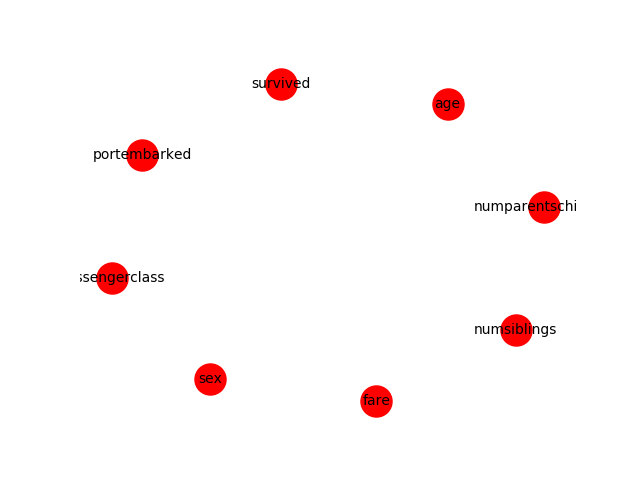
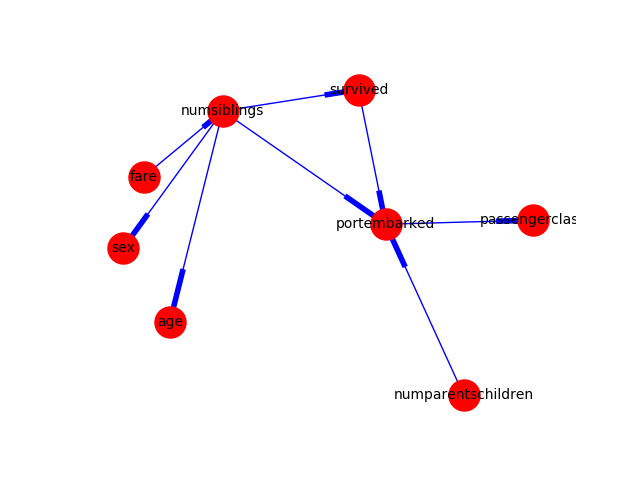
workable algorithm that builds graph developed; initial score before adding parents seems too high, thus discouraged

diff --git a/grapho.py b/grapho.py
@@ -53,71 +53,90 @@ def compute(infile, outfile):
 # loop a limited number of times morphing graph into higher scoring shape
 def optimizeGraph(graph, dataframe):
     # graph = addRandomEdge(graph)
+    # graph = addRandomEdge(graph)
+    # graph = addRandomEdge(graph)
     initialScore = oscore.getScore(graph, dataframe, 0)
     bestGraph = graph.copy()
     for node in graph.nodes():
         bestGraph = getChangedGraph(bestGraph, node, dataframe).copy()
     finalScore = oscore.getScore(bestGraph, dataframe, -1)
-    print "****** INITIAL SCORE: " + str(int(initialScore)) + ", FINAL SCORE: " + str(int(finalScore)) + " ******"
+    # print "****** INITIAL SCORE: " + str(int(initialScore)) + ", FINAL SCORE: " + str(int(finalScore)) + " ******"
     return bestGraph
 
-# # SEED the graph
-# def addRandomEdge(graph):
-#     fromNode = choice(graph.nodes())
-#     toNode = choice(graph.nodes())
-#     while fromNode==toNode:
-#         toNode = choice(graph.nodes())
-#     graph.add_edge(fromNode, toNode)  # seed the graph
-#     return graph
+# SEED the graph
+def addRandomEdge(graph):
+    fromNode = choice(graph.nodes())
+    toNode = choice(graph.nodes())
+    while fromNode==toNode:
+        toNode = choice(graph.nodes())
+    graph.add_edge(fromNode, toNode)  # seed the graph
+    return graph
 
-# MORPH
+# MORPH: K2 ALGORITHM
 # greedy iteration over the graph looking for a better shape than current
 # attempt the modifiaction at the provided node
 # try to connect the provided node to a random other node
 # a minimum score gain is gauged before deciding to evolve the graph
 def getChangedGraph(graph, toNode, dataframe):
-    # maxTries = 10
     attempt = 0
-    minScoreGain = 10
-    # initialGraph = graph.copy()
-    bestMoveGaph = graph.copy()    # greedily find the best graph after maxTries
+    bestMoveGraph = graph.copy()    # greedily find the best graph after maxTries
     for randomNode in graph.nodes():
-        # randomNode = choice(graph.nodes())
-        # attempt = attempt + 1
-        # print "Attempt=" + str(attempt) + " at optimizing to node=" + str(toNode)
-        # if attempt>maxTries:
-        #     if int(oscore.getScore(bestMoveGaph, dataframe, attempt)) > int(oscore.getScore(initialGraph, dataframe, attempt)):
-        #         print "FOUND a graph optimization to node=" + str(toNode) + "... " + str(oshow.toEdgesString(bestMoveGaph))
-        #         return bestMoveGaph # after many attempts, return the bestMoveGaph
-        #     else:
-        #         print "NO better graph found to node=" + str(toNode) + "... " + str(oshow.toEdgesString(initialGraph))
-        #         return initialGraph
         if randomNode!=toNode:   # connect only to a different node
             if not graph.has_edge(randomNode, toNode):     # connect only if the nodes are not connected either way
                 if not graph.has_edge(toNode, randomNode):  # connect only if the nodes are not connected either way
-                    if len(oxnet.getRandomVarParents(randomNode, graph))==0:  # allow one parent for now
-                        tentativeGraph = bestMoveGaph.copy()
-                        tentativeGraph.add_edge(randomNode, toNode)
-                        tentativeScore = oscore.getScore(tentativeGraph, dataframe, attempt)
-                        currentBestScore = oscore.getScore(bestMoveGaph, dataframe, attempt)
-                        delta = int(tentativeScore) - int(currentBestScore)
-                        print ">Evaluating new graph for better score: from=" + str(int(currentBestScore)) + " to=" + str(int(tentativeScore)) + \
-                              " GAIN=" + str(delta) + " adding EDGE=" + str(randomNode) +"-"+ str(toNode) + \
-                              "TO =>NODES: " + str(tentativeGraph.nodes()) + ", =>EDGES: " + str(tentativeGraph.edges())
-                        if int(delta) > int(minScoreGain):
-                            cycles = list(nx.simple_cycles(tentativeGraph))
-                            print "Potential Graph Cycles: " + str(cycles)
-                            if len(cycles)==0:
-                                # if nx.is_directed_acyclic_graph(tentativeGraph)==False:
-                                print "==> Switching graph candidate!"
-                                bestMoveGaph = tentativeGraph.copy()
-                                # else: print "Did not adopt because it would cause a cycle in the graph..."
-                        else: print "Did not enough score gain to make the change..."
-                    else: print "Did not pursue because the toNode already has a parent..."
+                    tentativeGraph1 = graph.copy()
+                    tentativeGraph1.add_edge(randomNode, toNode)
+                    tentativeGraph2 = graph.copy()
+                    tentativeGraph2.add_edge(toNode, randomNode)
+                    newBestGaph = compareGraphs(tentativeGraph1, tentativeGraph2, bestMoveGraph, dataframe, attempt)
+                    bestMoveGraph = switchGraph(newBestGaph, bestMoveGraph).copy()
+                    attempt = attempt+1
                 else: print "Did not tackle because the nodes already shared an edge..."
             else: print "Did not tackle because the nodes already shared an edge..."
         else: print "Did not try to connect same to/from nodes..."
-    return bestMoveGaph
+    return bestMoveGraph
+
+
+# COMPARE: pick the best graph from a comparison set
+def compareGraphs(tentativeGraph1, tentativeGraph2, bestMoveGraph, dataframe, attempt):
+    tentativeScore1 = oscore.getScore(tentativeGraph1, dataframe, attempt)
+    tentativeScore2 = oscore.getScore(tentativeGraph2, dataframe, attempt)
+    currentBestScore = oscore.getScore(bestMoveGraph, dataframe, attempt)
+    print "SCORE COMP: " + str(tentativeScore1) + " " + str(tentativeScore2) + " " + str(currentBestScore)
+    if attempt>100:
+        if tentativeScore1>tentativeScore2:
+            if tentativeScore1>currentBestScore:
+                return tentativeGraph1
+        if tentativeScore2 > tentativeScore1:
+            if tentativeScore2>currentBestScore:
+                return tentativeGraph2
+    else:   # encourage getting off the status quo; formula appears to not penalize lack of parents
+        if tentativeScore1>tentativeScore2:
+            return tentativeGraph1
+        if tentativeScore2 > tentativeScore1:
+            return tentativeGraph2
+    return bestMoveGraph
+            # delta = int(tentativeScore) - int(currentBestScore)
+    # print ">Evaluating new graph for better score: from=" + str(int(currentBestScore)) + " to=" + str(
+    #     int(tentativeScore)) + \
+    #       " GAIN=" + str(delta) + " adding EDGE=" + str(randomNode) + "-" + str(toNode) + \
+    #       "TO =>NODES: " + str(tentativeGraph.nodes()) + ", =>EDGES: " + str(tentativeGraph.edges())
+    # if int(delta) > int(minScoreGain):
+    # else:
+    #     print "Did not pursue because the toNode already has a parent..."
+
+# SWITCH GRAPH: after verifying the graph is acyclical
+def switchGraph(newBestGaph, bestMoveGraph):
+    cycles = list(nx.simple_cycles(newBestGaph))
+    print "Potential Graph Cycles: " + str(cycles)
+    if len(cycles) == 0:
+        # if nx.is_directed_acyclic_graph(tentativeGraph)==False:
+        print "==> Switching graph candidate!"
+        return newBestGaph
+        # else: print "Did not adopt because it would cause a cycle in the graph..."
+    else:
+        print "Did not enough score gain to make the change..."
+        return bestMoveGraph
 
 
 # ADD RANDOM VARIABLE NODES

diff --git a/graphoscore.py b/graphoscore.py
@@ -58,9 +58,10 @@ def getUpdatedCooperHerscovitsBayesianScore(graph, dataframe, label):
             kValueForRandomVari = iRandomVarValues[k]
             NijkList = ocount.getNijkCountList(iRandomVarName, kValueForRandomVari, iRandomVarParents, varValuesDictionary, dataframe)
             varAndParentAggregateConsideration = getRandomVarAndParentAggregateConsideration(Ri, NijkList, logForm)
-            AggregateConsiderationList.append(varAndParentAggregateConsideration)
             varValuesIndividualConsideration = getRandomVarAndParentIndividualConsideration(NijkList, logForm)
+            AggregateConsiderationList.append(varAndParentAggregateConsideration)
             IndividualConsiderationList.append(varValuesIndividualConsideration)
+
     if not logForm: # multiply
         for aggregate in AggregateConsiderationList:
             score = score * aggregate
